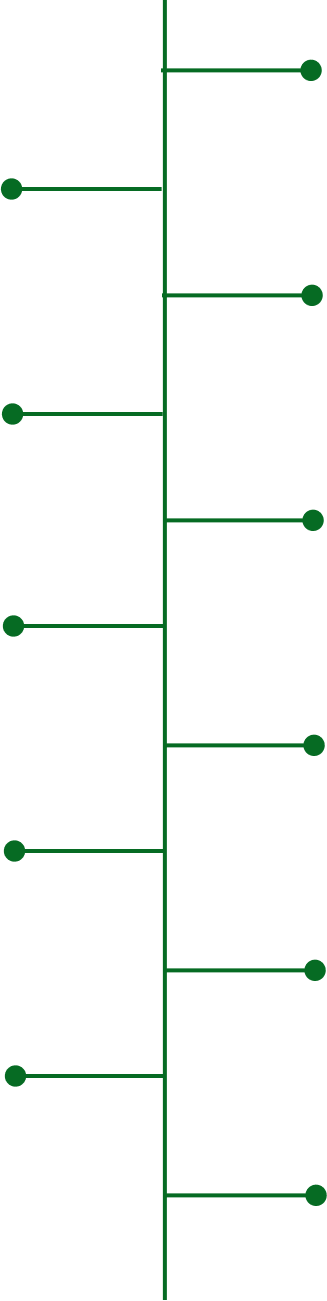
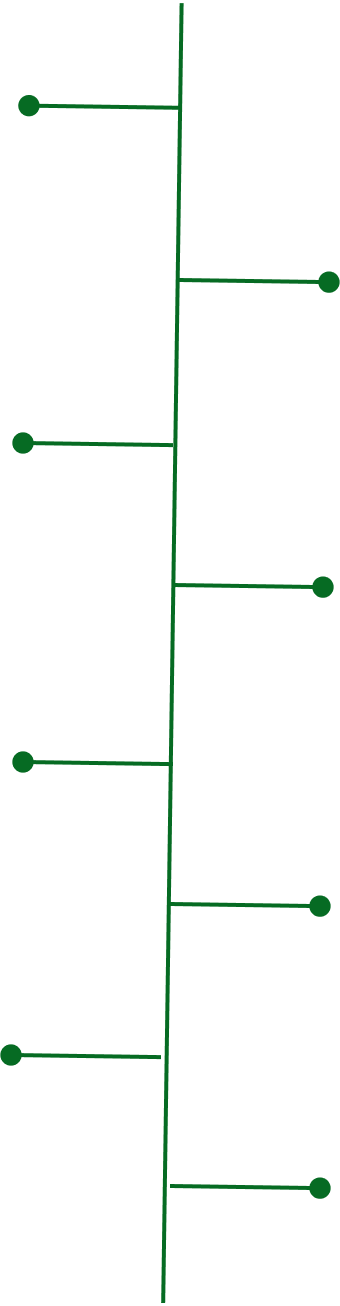
Small Changes Updated

diff --git a/index.html b/index.html
@@ -34,12 +34,15 @@
 
     <!-- ------Home------ -->
     <nav class="navbar background navback hnavresp">
-      <a href="/"><img src="img/logo.png" alt="" class="src" /></a>
+      <a href="/"><img src="img/logo.png" alt="" class="src" style="width: 55px;
+        margin-top: 24px;"/></a>
       <a href="index.html"
         ><img
           src="img/UpstartLogo2-01 (2).png"
           alt=""
-          style="margin: 0; width: 200px"
+          style="margin-right: 119px;
+          width: 150px;
+          margin-top: 15px;"
           class="src"
       /></a>
       <div class="navlinks navlist vclassresp">
@@ -129,41 +132,33 @@
       <div class="underline"></div>
       <div class="container bg">
         <div class="flex-center top">
-          <div class="date down">
+          <div class="date">
             <h1>2nd November 2022</h1>
             <h1>Upstart Nationals Launch</h1>
           </div>
-          <div class="date">
+          <div class="date down">
             <h1>20th November 2022</h1>
             <h1>Deadline for Online Registration</h1>
           </div>
-          <div class="date down">
+          <div class="date">
             <h1>4th December 2022</h1>
             <h1>Upstart'22 Hyderabad</h1>
           </div>
-          <div class="date">
+          <div class="date down">
             <h1>4th December 2022</h1>
             <h1>Upstart'22 Bangalore</h1>
-          </div>
-          <div class="date down">
-            <h1>10th December 2022</h1>
-            <h1>Upstart'22 Delhi</h1>
           </div>
         </div>
         <img class="horizontal" src="img/timeline.png" alt="" />
         <img class="vertical" src="img/Vertical timeline.png" alt="" />
         <div class="flex-center bottom">
           <div class="date up">
-            <h1>9th December 2022</h1>
-            <h1>Mentorship Commencement</h1>
-          </div>
-          <div class="date">
             <h1>10th December 2022</h1>
-            <h1>Mentorship Commencement</h1>
+            <h1>Upstart'22 Delhi</h1>
           </div>
           <div class="date">
-            <h1>11th December 2022</h1>
-            <h1>Mentorship Commencement</h1>
+            <h1>11th December 2022 - 9th January 2023</h1>
+            <h1>Four Weeks Mentorship Commencement</h1>
           </div>
           <div class="date up">
             <h1>14th January 2023</h1>
@@ -217,7 +212,7 @@
               <h1>4th December</h1>
             </div>
           </div>
-          <h1>Banglore</h1>
+          <h1>Bangalore</h1>
           <div class="delhi flex-center">
             <div class="images">
               <img src="img/nationals/bangalore.jpg" alt="" />
@@ -515,7 +510,7 @@
           <div class="row row1">
             <div class="timeline-content">
               <div class="icon hide-lg">
-                <img src="img/Cap.png" alt="" />
+                <img src="img/idea.png" alt="" />
                 <h1>7+5 Format Pitches</h1>
               </div>
               <p>
@@ -527,8 +522,8 @@
               </p>
             </div>
             <div class="cir1"></div>
-            <div class="icon hide">
-              <img src="img/Cap.png" alt="" />
+            <div class="icon hide" style="height: 94px;">
+              <img src="img/idea.png" alt="" />
               <h1>7+5 Format Pitches</h1>
             </div>
           </div>
@@ -579,7 +574,7 @@
           <div class="row row2">
             <div class="icon hide">
               <img src="img/shield.png" alt="" />
-              <h1>Final Pitch</h1>
+              <h1 style="padding-right: 103px;">Final Pitch</h1>
             </div>
             <div class="cir2"></div>
             <div class="timeline-content">
@@ -972,7 +967,7 @@
               </p>
             </div>
             <div class="name">
-              <h3>SANMATI PANDEL</h3>
+              <h3>SANMATI PANDE</h3>
               <p>Overall Coordinator</p>
               <p><a href="tel:8080926316">8080926316</a></p>
               <p>

diff --git a/JS/resp.js b/JS/resp.js
@@ -36,6 +36,26 @@ window.addEventListener("scroll", function(){
   header.classList.toggle("sticky", window.scrollY > 0);
 })
 
+// Navigation effect on Scrolling
+
+window.addEventListener("scroll", () => {
+  const sections = document.querySelectorAll("section");
+  const scrollY = window.pageYOffset;
+
+  sections.forEach(current => {
+      let sectionHeight = current.offsetHeight;
+      let sectionTop = current.offsetTop - 50;
+      let id = current.getAttribute("id");
+
+      if(scrollY > sectionTop && scrollY <= sectionTop + sectionHeight){
+          document.querySelector(".navlinks ul li a[href*=" + id + "]").classList.add("active");
+      }
+      else{
+          document.querySelector(".navlinks ul li a[href*=" + id + "]").classList.remove("active");
+      }
+  })
+})
+
 // Scroll Button 
 const Scrollbtn = document.querySelector(".scroll")
 
@@ -51,15 +71,15 @@ Scrollbtn.addEventListener("click", () =>{
 // Scroll Reveal Animation
 ScrollReveal({
     reset: false,
-    distance: '75px',
-    duration: 1700,
-    delay: 70
+    distance: '60px',
+    duration: 1400,
+    delay: 50
 });
 
 ScrollReveal().reveal('.main .left, .container .row, .mainrow, .box', { delay: 600, origin: 'bottom', interval:200 });
 ScrollReveal().reveal('.leftcol, .cols .left,  #Nationals .flex-center .container h1', { delay: 500, origin: 'left' });
 ScrollReveal().reveal('.rightcol, .cols .right1, .eligright .eligp, .leftcontact', { delay: 500, origin: 'right' });
-ScrollReveal().reveal('.group .block, .delhi .content', { delay: 800, origin: 'bottom',interval:200 });
+ScrollReveal().reveal('.group .block, .delhi .content', { delay: 700, origin: 'bottom',interval:200 });
 ScrollReveal().reveal('.cols .mid, .container .bottom, .delhi .images', { delay: 500, origin: 'bottom' });
 ScrollReveal().reveal('.container .top, #Nationals .flex-center .container .delhi .ver h1', { delay: 500, origin: 'top' });
 ScrollReveal().reveal('.eligright .info', { delay: 600, origin: 'right', interval:200 });

diff --git a/css/style.css b/css/style.css
@@ -139,6 +139,10 @@ nav img {
   font-family: "Oswald", sans-serif;
 }
 
+.navlinks ul li a.active{
+  color: #00d1a0;
+}
+
 .navlinks ul li::after {
   content: "";
   width: 0%;
@@ -263,7 +267,7 @@ body {
 
 .line {
   width: 33px;
-  background-color: white;
+  background-color: black;
   height: 4px;
   margin: 3px 3px;
 }
@@ -489,20 +493,20 @@ body {
 }
 
 .date {
-  margin: 8px 15px;
+  margin: 8px 45px;
   font-size: 14px;
 }
 
 .down {
   margin-bottom: -17%;
-  margin-left: -85px;
-  margin-right: 10px;
+  margin-left: -44px;
+  margin-right: 4px;
 }
 
 .up {
   margin-top: -21%;
-  margin-left: 18px;
-  margin-right: 11px;
+  margin-left: -76px;
+  margin-right: -93px;
 }
 
 /* -------Upstart National------- */
@@ -671,7 +675,7 @@ body {
 
 .wrapper .row1 .icon img {
   margin-right: 7px;
-  margin-left: 97%;
+  margin-left: 78%;
 }
 
 .wrapper .row1 .icon h1 {
@@ -978,37 +982,37 @@ body {
 }
 
 .two {
-  right: 20%;
+  right: 16%;
 
 }
 
 .three {
-  right: 10%;
+  right: 8%;
 }
 
 .four {
-  right: 6%;
+  right: 3%;
 
 }
 
 .five {
-  right: 1%;
+  right: 0%;
 }
 
 .six {
-  right: 1%;
+  right: 0%;
 }
 
 .seven {
-  right: 6%;
+  right: 3%;
 }
 
 .eight {
-  right: 10%;
+  right: 8%;
 }
 
 .nine {
-  right: 20%;
+  right: 16%;
 }
 
 .ten {
@@ -1128,9 +1132,6 @@ hr {
     transition: 0.3s ease;
   }
 
-  .navlinks ul li a {
-    color: black;
-  }
 
   .nav-close-btn {
     position: absolute;

diff --git a/css/mobile.css b/css/mobile.css
@@ -131,6 +131,10 @@ nav img {
   font-size: 40px;
 }
 
+.photo img{
+  width: 50%;
+}
+
 /* Timeline Section  */
 #timeline .container .flex-center{
   flex-direction: column;
@@ -146,11 +150,10 @@ nav img {
 
 #timeline .container{
   flex-direction: row;
-  margin-left: 10%;
 }
 
 .date h1{
-  font-size: 16px;
+  font-size: 13px;
 }
 
 .down{
@@ -161,7 +164,7 @@ nav img {
 }
 
 .date{
-  margin: 23px 2px;
+  margin: 30px 11px;
 }
 
 /* Upstart National  */
@@ -236,6 +239,11 @@ nav img {
   margin: auto;
 }
 
+.eligp{
+  font-size: 18px;
+  padding: 0 18px;
+}
+
 
 /* Competition Structure  */
 .wrapper .center-line{
@@ -258,20 +266,20 @@ nav img {
 .wrapper .row2 .icon h1{
   font-size: 15px;
   text-align: center;
-  margin: 20px 0;
+  margin: 15px 0;
 }
 .wrapper .row2 .icon img{
   margin: auto;
-  width: 60%;
+  width: 23%;
   object-fit: contain;
 }
 .wrapper .row1 .icon img{
   margin: auto;
-  width: 80%;
+  width: 24%;
   object-fit: contain;
 }
 .wrapper .row1 .icon h1{
-  margin: 20px 0;
+  margin: 15px 0;
   text-align: center;
   font-size: 15px;
 }
@@ -298,6 +306,7 @@ nav img {
 
 .timeline-content p{
   line-height: 22px;
+  font-size: 14px;
 }
 
 .box{
@@ -387,6 +396,11 @@ nav img {
 
 .dividefooter {
   flex-direction: column;
+  text-align: center;
+  padding-top: 0px;
+}
+
+.part1 a{
   text-align: center;
 }
 

diff --git a/faq.html b/faq.html
@@ -44,12 +44,12 @@
       <div class="navlinks navlist vclassresp">
         <ul>
           <div class="nav-close-btn"></div>
-          <li><a href="#home">Home</a></li>
-          <li><a href="#about">About</a></li>
-          <li><a href="#timeline">Timeline</a></li>
-          <li><a href="#Nationals">Nationals</a></li>
-          <li><a href="#Edge">Edge</a></li>
-          <li><a href="#incentive">Incentives</a></li>
+          <li><a href="index.html#home">Home</a></li>
+          <li><a href="index.html#about">About</a></li>
+          <li><a href="index.html#timeline">Timeline</a></li>
+          <li><a href="index.html#Nationals">Nationals</a></li>
+          <li><a href="index.html#Edge">Edge</a></li>
+          <li><a href="index.html#incentive">Incentives</a></li>
           <li><a href="/faq.html">FAQ</a></li>
           <li class="navbutton">
             <a href="https://forms.gle/MJec73BVUh8zCyJe7" target="_blank"
